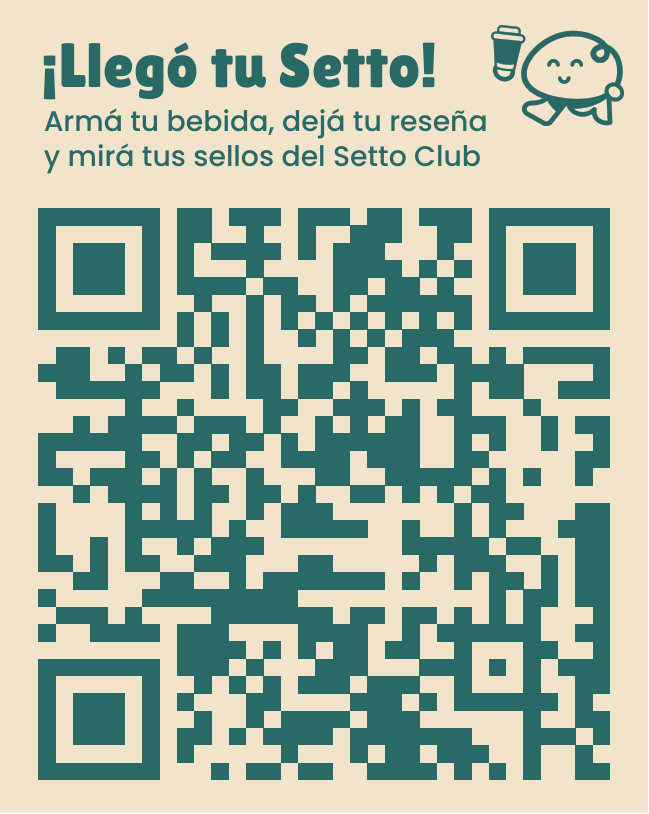
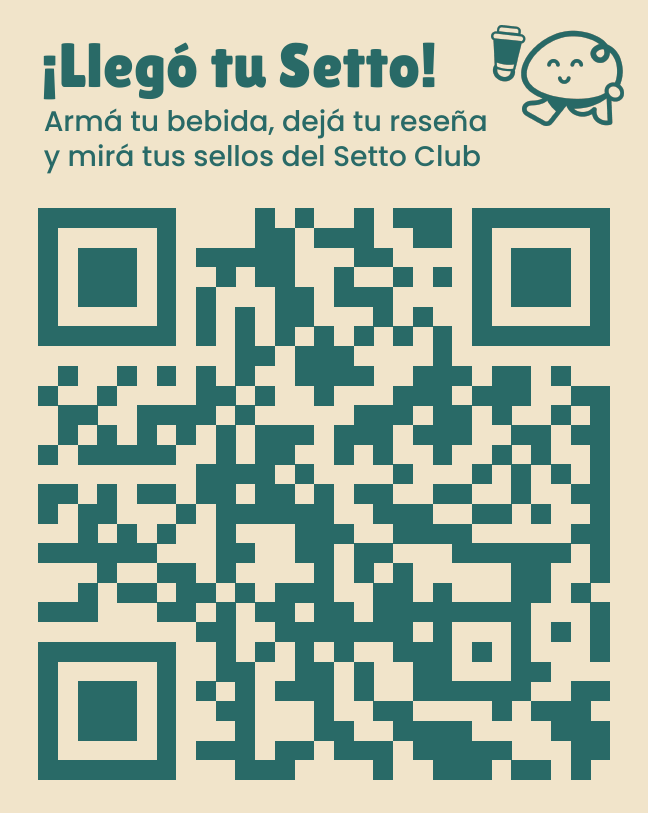
QR del sticker apunta a setto.com.ar/listo
Claude-Session: https://claude.ai/code/session_01LNCoJ4wPEewS73qWt99Cx5

diff --git a/README.md b/README.md
@@ -238,4 +238,4 @@ python3 -m http.server 8000
 - Reconoce el pedido solo si se pidió desde ese celular o se abrió el link del WhatsApp; si no, se busca con código (STT-1234) + celular.
 - La reseña se puede dejar cuando el pedido está **listo** o **entregado** (migración 018).
 - El mensaje "Pedir reseña" del panel ahora manda a `/listo?seguir=…`.
-- Archivos del sticker: `img/qr/QR-setto-listo.pdf` (vector, 5,5 × 6,9 cm) y `.png`.
+- Archivos del sticker: `img/qr/QR-setto-listo.pdf` (vector, 5,5 × 6,9 cm) y `.png`, apuntan a https://setto.com.ar/listo.
